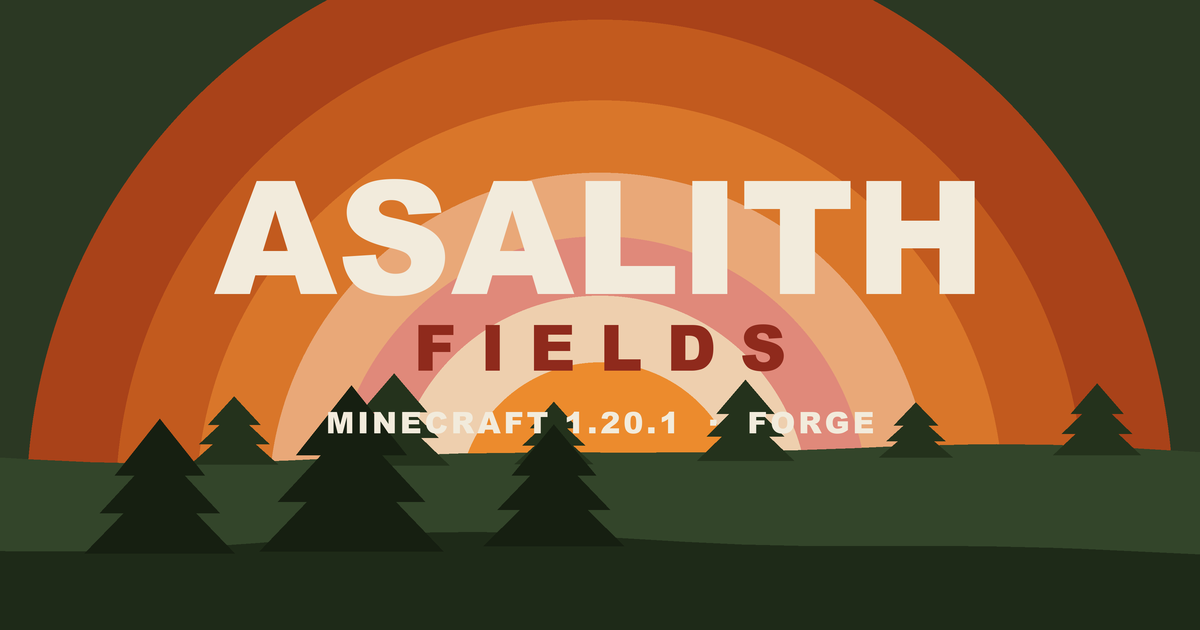
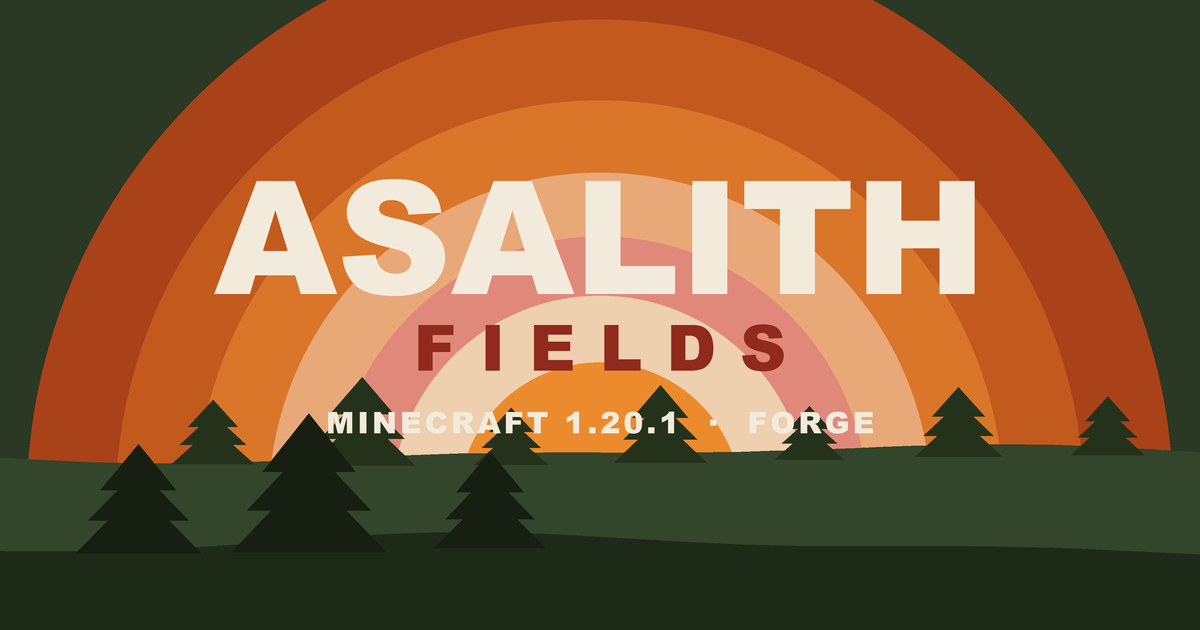
Afinar la insignia y bajar el ruido del fondo de portada
El logotipo se apoyaba sobre la linea de coniferas y las letras se
mezclaban con los arboles. La colina delantera pasa por encima del texto
y el centro del bosque se despeja para que el sol quede entero.

Los arcos del fondo de portada se atenuan: con las bandas tan juntas
leian como una diana en vez de como una continuacion del logotipo.

diff --git a/index.html b/index.html
@@ -81,17 +81,13 @@ a:hover { color: var(--rosa); }
 .portada::before {
   content: "";
   position: absolute;
-  left: 50%;
-  top: clamp(-10rem, -16vw, -5rem);
-  width: min(190vw, 1700px);
-  aspect-ratio: 1;
-  translate: -50% 0;
+  inset: 0;
   background: repeating-radial-gradient(
-    circle at 50% 62%,
-    oklch(0.735 0.155 58 / 0.11) 0 3.6%,
-    transparent 3.6% 7.6%
+    circle at 50% 27%,
+    oklch(0.735 0.155 58 / 0.055) 0 5.5%,
+    transparent 5.5% 12.5%
   );
-  mask-image: radial-gradient(circle at 50% 62%, #000 34%, transparent 68%);
+  mask-image: radial-gradient(circle at 50% 27%, #000 14%, transparent 58%);
   pointer-events: none;
 }
 
@@ -197,7 +193,8 @@ h2 { font-size: clamp(1.75rem, 1.3rem + 1.8vw, 2.6rem); margin: 0 0 0.6rem; }
 @keyframes aparecer { from { opacity: 0; translate: 0 8px; } to { opacity: 1; translate: 0 0; } }
 
 .aviso {
-  margin: 0 0 1.6rem;
+  margin: 0 0 1.8rem;
+  max-width: 68ch;
   padding: 0.95rem 1.15rem;
   border: 1px solid var(--bosque-alto);
   border-radius: 8px;

diff --git a/scripts/build_brand_assets.py b/scripts/build_brand_assets.py
@@ -56,9 +56,11 @@ R_INTERIOR_BORDE = 236.0
 R_ESCENA = 228.0
 HORIZONTE = (260.0, 300.0)
 
-# Alturas de las dos colinas en el lienzo de referencia.
-Y_COLINA_FONDO = 336.0
-Y_COLINA_FRENTE = 392.0
+# Alturas de las dos colinas en el lienzo de referencia. La colina delantera
+# queda justo por encima del logotipo: el texto se apoya en verde solido y la
+# linea de coniferas se recorta contra el cielo, como en el logotipo original.
+Y_COLINA_FONDO = 318.0
+Y_COLINA_FRENTE = 334.0
 
 
 def colina(y_base: float, amplitud: float, fase: float,
@@ -105,14 +107,15 @@ COLINA_A = colina(Y_COLINA_FONDO, 7.0, 0.6)
 COLINA_B = colina(Y_COLINA_FRENTE, 9.0, 2.4)
 
 # (x, alto, ancho) — la base se calcula sobre la colina correspondiente.
+# El centro se deja despejado para que el sol se vea entero entre los arboles.
 CONIFERAS_FONDO = [
-    (44, 74, 38), (74, 100, 48), (104, 68, 34), (140, 88, 42), (172, 60, 32),
-    (206, 78, 38), (300, 72, 36), (334, 96, 46), (368, 64, 32), (400, 84, 40),
-    (434, 70, 36), (466, 92, 44),
+    (40, 70, 36), (68, 96, 46), (96, 62, 32), (124, 84, 40), (152, 58, 30),
+    (180, 76, 38), (208, 64, 32), (312, 68, 34), (340, 90, 44), (368, 60, 30),
+    (396, 82, 40), (424, 66, 34), (452, 94, 46), (480, 72, 36),
 ]
 CONIFERAS_FRENTE = [
-    (30, 128, 62), (66, 158, 76), (104, 116, 58),
-    (416, 122, 60), (452, 160, 78), (488, 124, 62),
+    (26, 104, 52), (58, 132, 64), (92, 92, 46),
+    (428, 96, 48), (462, 134, 66), (494, 106, 52),
 ]
 
 PAJAROS = [(196, 150, 13), (232, 134, 10), (266, 154, 11), (318, 142, 12)]
@@ -168,12 +171,12 @@ def escena_svg(con_texto: bool) -> str:
 
     if con_texto:
         p.append(
-            f'<text x="260" y="378" text-anchor="middle" fill="{CREMA}" '
+            f'<text x="260" y="392" text-anchor="middle" fill="{CREMA}" '
             "font-family=\"'Archivo Black','Arial Black',Arial,sans-serif\" "
             'font-size="76" letter-spacing="1">ASALITH</text>'
         )
         p.append(
-            f'<text x="260" y="424" text-anchor="middle" fill="{ROJO_TIERRA}" '
+            f'<text x="260" y="438" text-anchor="middle" fill="{ROJO_TIERRA}" '
             "font-family=\"'Archivo Black','Arial Black',Arial,sans-serif\" "
             'font-size="37" letter-spacing="12">FIELDS</text>'
         )
@@ -258,8 +261,8 @@ def construir_preview_badge() -> None:
     for arbol in arboles_plantados(CONIFERAS_FRENTE, COLINA_B):
         dc.polygon([(x * S, y * S) for x, y in arbol], fill=ARBOL_FRENTE)
 
-    _centrar(dc, "ASALITH", _fuente(int(76 * S)), int(316 * S), CREMA, L)
-    _centrar(dc, "FIELDS", _fuente(int(37 * S)), int(390 * S), ROJO_TIERRA, L, espaciado=int(12 * S))
+    _centrar(dc, "ASALITH", _fuente(int(76 * S)), int(330 * S), CREMA, L)
+    _centrar(dc, "FIELDS", _fuente(int(37 * S)), int(404 * S), ROJO_TIERRA, L, espaciado=int(12 * S))
 
     mascara = Image.new("L", (L, L), 0)
     ImageDraw.Draw(mascara).ellipse(
